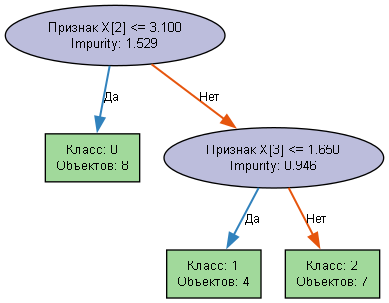
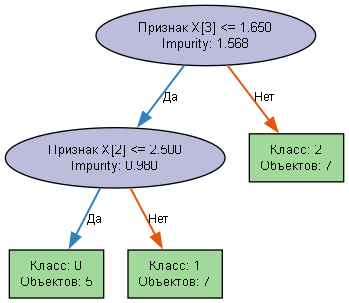
init

diff --git a/src/decision_tree.c b/src/decision_tree.c
@@ -7,7 +7,7 @@
 
 /* 1. СТРУКТУРЫ УТИЛИТ И СОРТИРОВКА   */
 typedef struct {
-    int *indices;
+    int *indices;  //мас индексов
     int size;
 } Subset;
 
@@ -16,7 +16,7 @@ typedef struct {
  * @brief Хранит пару "Значение признака - Исходный индекс" для Quicksort.
  */
 typedef struct {
-    double value;
+    double value;  //знач признака
     int index;
 } SortItem;
 
@@ -31,6 +31,7 @@ static int compare_items(const void *a, const void *b) {
     return 0;
 }
 
+//индекс Джини по массиву количества объектов каждого класса
 static double calc_gini_from_counts(const int *counts, int num_classes, int total) {
     if (total == 0) return 0.0;
     double gini = 1.0;
@@ -43,6 +44,7 @@ static double calc_gini_from_counts(const int *counts, int num_classes, int tota
     return gini;
 }
 
+//энтропия по массиву количества объектов каждого класса
 static double calc_entropy_from_counts(const int *counts, int num_classes, int total) {
     if (total == 0) return 0.0;
     double entropy = 0.0;
@@ -55,6 +57,7 @@ static double calc_entropy_from_counts(const int *counts, int num_classes, int t
     return entropy;
 }
 
+//среднеквадратичная ошибка (MSE) для регрессии
 static double calc_mse_from_sums(double sum, double sq_sum, int total) {
     if (total == 0) return 0.0;
     double mean = sum / total;
@@ -79,13 +82,14 @@ static void find_best_split_classification(
     int *left_counts = (int*)calloc(n_classes, sizeof(int));
     int *right_counts = (int*)calloc(n_classes, sizeof(int));
     
-    // Инициализация правой гистограммы всеми элементами узла
+    //инициализация правой гистограммы всеми элементами узла
     for (int i = 0; i < s->size; i++) {
         right_counts[(int)d->targets[items[i].index]]++;
     }
 
     int left_size = 0, right_size = s->size;
     
+    //перебираем возможные точки разделения
     for (int i = 0; i < s->size - 1; i++) {
         int c = (int)d->targets[items[i].index];
         left_counts[c]++;
@@ -125,6 +129,7 @@ static void find_best_split_regression(
     const Dataset *d, Subset *s, int f_idx,
     double cur_imp, double *best_drop, int *best_f, double *best_t) 
 {
+    //создаем и сортируем массив
     SortItem *items = (SortItem*)malloc(s->size * sizeof(SortItem));
     for (int i = 0; i < s->size; i++) {
         items[i].value = d->features[s->indices[i]][f_idx];
@@ -135,7 +140,7 @@ static void find_best_split_regression(
     double left_sum = 0, left_sq_sum = 0;
     double right_sum = 0, right_sq_sum = 0;
 
-    // Изначально всё в правой ветви
+    //изначально всё в правой ветви
     for (int i = 0; i < s->size; i++) {
         double v = d->targets[items[i].index];
         right_sum += v;
@@ -144,6 +149,7 @@ static void find_best_split_regression(
 
     int left_size = 0, right_size = s->size;
     
+    //перебираем точки разделения
     for (int i = 0; i < s->size - 1; i++) {
         double v = d->targets[items[i].index];
         left_sum += v; left_sq_sum += v * v;
@@ -168,6 +174,7 @@ static void find_best_split_regression(
     free(items);
 }
 
+//вычисление предсказания для листового узла
 static double get_leaf_prediction(const Dataset *d, Subset *s, TaskType task, int n_classes) {
     if (task == TASK_REGRESSION) {
         double sum = 0;
@@ -188,11 +195,12 @@ static double get_leaf_prediction(const Dataset *d, Subset *s, TaskType task, in
     }
 }
 
+//рекурсивная функция построения дерева
 static TreeNode* build_tree_recursive(TreeModel *model, const Dataset *d, Subset *s, int depth) {
     TreeNode *node = (TreeNode*)calloc(1, sizeof(TreeNode));
     node->num_samples = s->size;
 
-    // Вычисляем примесь (Impurity) текущего узла
+    //вычисляем примесь (Impurity) текущего узла
     if (model->task == TASK_REGRESSION) {
         double sum = 0, sq_sum = 0;
         for (int i = 0; i < s->size; i++) {
@@ -209,7 +217,7 @@ static TreeNode* build_tree_recursive(TreeModel *model, const Dataset *d, Subset
         free(counts);
     }
 
-    // Базовые условия остановки
+    //базовые условия остановки
     if (depth >= model->max_depth || s->size < model->min_samples_split || node->impurity < EPSILON) {
         node->is_leaf = true;
         node->predicted_value = get_leaf_prediction(d, s, model->task, model->n_classes);
@@ -220,7 +228,7 @@ static TreeNode* build_tree_recursive(TreeModel *model, const Dataset *d, Subset
     double best_t = 0.0;
     double best_drop = -1.0;
 
-    // Перебор признаков
+    //перебор признаков
     for (int f = 0; f < d->num_cols; f++) {
         if (model->task == TASK_CLASSIFICATION) {
             find_best_split_classification(d, s, f, model->criterion, model->n_classes, 
@@ -230,20 +238,20 @@ static TreeNode* build_tree_recursive(TreeModel *model, const Dataset *d, Subset
         }
     }
 
-    // Если не удалось улучшить узел - делаем листом
+    //если не удалось улучшить узел - делаем листом
     if (best_f == -1 || best_drop <= 0) {
         node->is_leaf = true;
         node->predicted_value = get_leaf_prediction(d, s, model->task, model->n_classes);
         return node;
     }
 
-    // Обновляем важность признака
+    //обновляем важность признака
     model->feature_importances[best_f] += (best_drop * s->size) / d->num_rows;
 
     node->feature_index = best_f;
     node->threshold = best_t;
 
-    // Физическое разделение массива индексов
+    //физическое разделение массива индексов
     Subset sl = { (int*)malloc(s->size * sizeof(int)), 0 };
     Subset sr = { (int*)malloc(s->size * sizeof(int)), 0 };
 
@@ -261,6 +269,7 @@ static TreeNode* build_tree_recursive(TreeModel *model, const Dataset *d, Subset
     return node;
 }
 
+//главная функция для построения модели
 TreeModel* build_tree_model(Dataset *data, int max_depth, int min_samples, TaskType task, Criterion crit) {
     if (!data || data->num_rows == 0) return NULL;
 
@@ -280,13 +289,14 @@ TreeModel* build_tree_model(Dataset *data, int max_depth, int min_samples, TaskT
         model->n_classes = max_c + 1;
     }
 
+    //создаем корневое подмножество, включающее все данные
     Subset root_sub = { (int*)malloc(data->num_rows * sizeof(int)), data->num_rows };
     for (int i = 0; i < data->num_rows; i++) root_sub.indices[i] = i;
 
     model->root = build_tree_recursive(model, data, &root_sub, 0);
     free(root_sub.indices);
 
-    // Нормализация Feature Importances (сумма = 1.0)
+    //нормализация Feature Importances 
     double sum_imp = 0;
     for (int i = 0; i < model->n_features; i++) sum_imp += model->feature_importances[i];
     if (sum_imp > EPSILON) {
@@ -296,6 +306,7 @@ TreeModel* build_tree_model(Dataset *data, int max_depth, int min_samples, TaskT
     return model;
 }
 
+//функция для предсказания значения для одного объекта
 double predict(const TreeModel *model, const double *features) {
     const TreeNode *node = model->root;
     while (!node->is_leaf) {
@@ -311,13 +322,13 @@ void print_feature_importances(const TreeModel *model) {
     }
     printf("------------------------------------------------\n");
 }
-
+//вывод отчета по классификации
 void print_classification_report(const TreeModel *model, const Dataset *data) {
     int correct = 0;
     int **cm = (int**)malloc(model->n_classes * sizeof(int*));
     for (int i = 0; i < model->n_classes; i++) cm[i] = (int*)calloc(model->n_classes, sizeof(int));
 
-    // Для бинарной классификации
+    //для бинарной классификации
     int tp = 0, fp = 0, fn = 0, tn = 0;
 
     for (int i = 0; i < data->num_rows; i++) {

diff --git a/src/dataset.c b/src/dataset.c
@@ -9,14 +9,14 @@ Dataset* load_csv(const char *filename, int has_header) {
     }
 
     char line[8192];
-    int rows = 0;
-    int cols = 0;
+    int rows = 0;  //счётчик строк
+    int cols = 0;  //столбцов
 
-    // Подсчет размерности
+    //подсчет размерности
     while (fgets(line, sizeof(line), file)) {
         if (rows == 0) {
-            char *tmp = strdup(line);
-            char *tok = strtok(tmp, ",\n");
+            char *tmp = strdup(line);  //копия строки
+            char *tok = strtok(tmp, ",\n");  //разбиение на токены
             while (tok) { cols++; tok = strtok(NULL, ",\n"); }
             free(tmp);
         }
@@ -55,8 +55,8 @@ Dataset* load_csv(const char *filename, int has_header) {
     fclose(file);
     return d;
 }
-
-void train_test_split(const Dataset *source, Dataset **train, Dataset **test, double train_ratio) {
+//разделение на обучающую и тестовую 
+void train_test_split(const Dataset *source, Dataset **train, Dataset **test, double train_ratio) {  
     if (!source || !train || !test) return;
 
     int train_size = (int)(source->num_rows * train_ratio);
@@ -77,16 +77,16 @@ void train_test_split(const Dataset *source, Dataset **train, Dataset **test, do
     int *indices = (int*)malloc(source->num_rows * sizeof(int));
     for (int i = 0; i < source->num_rows; i++) indices[i] = i;
 
-    // Fisher-Yates Shuffle
-    srand((unsigned int)time(NULL));
-    for (int i = source->num_rows - 1; i > 0; i--) {
+    //алгоритм Фишера-Йейтса
+    srand((unsigned int)time(NULL));  //генерация случ чисел
+    for (int i = source->num_rows - 1; i > 0; i--) {  //получаем случайный индекс
         int j = rand() % (i + 1);
         int temp = indices[i];
         indices[i] = indices[j];
         indices[j] = temp;
     }
 
-    // Распределение данных
+    //распределение данных
     for (int i = 0; i < train_size; i++) {
         int src_idx = indices[i];
         (*train)->features[i] = (double*)malloc(source->num_cols * sizeof(double));

diff --git a/include/decision_tree.h b/include/decision_tree.h
@@ -15,13 +15,13 @@ typedef enum { CRITERION_GINI, CRITERION_ENTROPY, CRITERION_MSE } Criterion;
  * @brief Структура узла дерева (рекурсивная)
  */
 typedef struct TreeNode {
-    int feature_index;
-    double threshold;
+    int feature_index;  //признак разделения
+    double threshold;  //знач для разделения
     struct TreeNode *left;
     struct TreeNode *right;
     bool is_leaf;
     double predicted_value;
-    int num_samples;
+    int num_samples;  //колво объектов в узле
     double impurity;
 } TreeNode;
 
@@ -31,17 +31,17 @@ typedef struct TreeNode {
  */
 typedef struct {
     TreeNode *root;
-    TaskType task;
+    TaskType task;  //тип задачи(классификация/регрессия)
     Criterion criterion;
     int max_depth;
     int min_samples_split;
-    int n_features;
+    int n_features; //колво признаков данных
     int n_classes;               /**< Используется только для классификации */
     double *feature_importances; /**< Массив важности признаков */
 } TreeModel;
 
 TreeModel* build_tree_model(Dataset *data, int max_depth, int min_samples, TaskType task, Criterion crit);
-double predict(const TreeModel *model, const double *features);
+double predict(const TreeModel *model, const double *features);  //предсказ знач для объекта
 
 void print_classification_report(const TreeModel *model, const Dataset *data);
 void print_regression_report(const TreeModel *model, const Dataset *data);

diff --git a/src/visualization.c b/src/visualization.c
@@ -3,6 +3,7 @@
 
 static int _node_id = 0;
 
+//рекурсивная функция для генерации описания узлов и связей
 static void _dot_recursive(const TreeNode *node, FILE *f, int id, TaskType task) {
     if (!node) return;
     
@@ -28,7 +29,7 @@ static void _dot_recursive(const TreeNode *node, FILE *f, int id, TaskType task)
         fprintf(f, "  n%d -> n%d [label=\"Нет\", color=\"#e6550d\", penwidth=1.5];\n", id, right_id);
     }
 }
-
+//функция для экспорта дерева 
 void export_tree_to_dot(const TreeModel *model, const char *filename) {
     if (!model || !model->root) return;
     FILE *f = fopen(filename, "w");

diff --git a/include/dataset.h b/include/dataset.h
@@ -17,7 +17,7 @@ typedef struct {
 } Dataset;
 
 Dataset* load_csv(const char *filename, int has_header);
-void train_test_split(const Dataset *source, Dataset **train, Dataset **test, double train_ratio);
+void train_test_split(const Dataset *source, Dataset **train, Dataset **test, double train_ratio); //разделение данных на обучающую и тестовую 
 void free_dataset(Dataset *data);
 
 #endif // DATASET_H

diff --git a/src/main.c b/src/main.c
@@ -21,6 +21,7 @@ int main(int argc, char **argv) {
     char task_char = argv[3][0];
     char crit_char = (argc > 4) ? argv[4][0] : 'g';
 
+    //определение типа задачи и критерия на основе символов
     TaskType task = (task_char == 'r') ? TASK_REGRESSION : TASK_CLASSIFICATION;
     Criterion crit = CRITERION_GINI;
     if (crit_char == 'e') crit = CRITERION_ENTROPY;